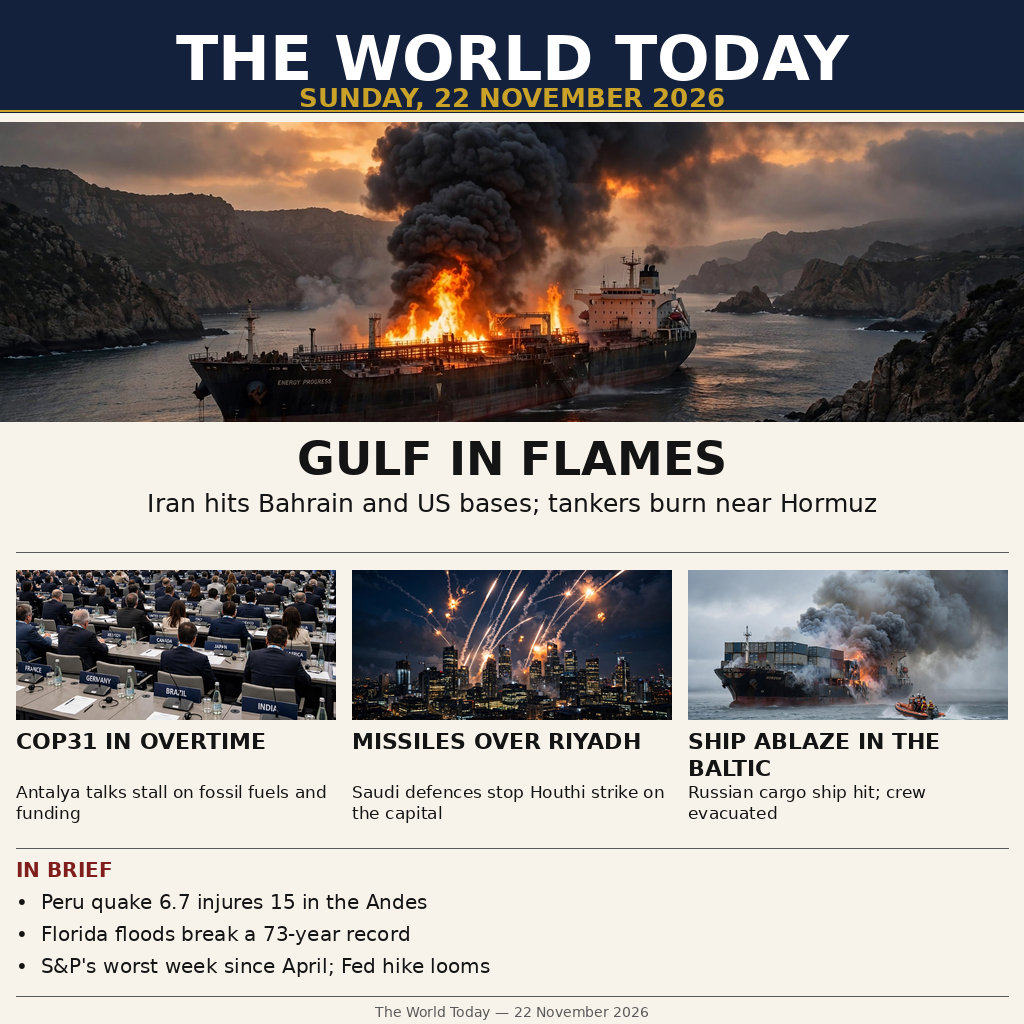
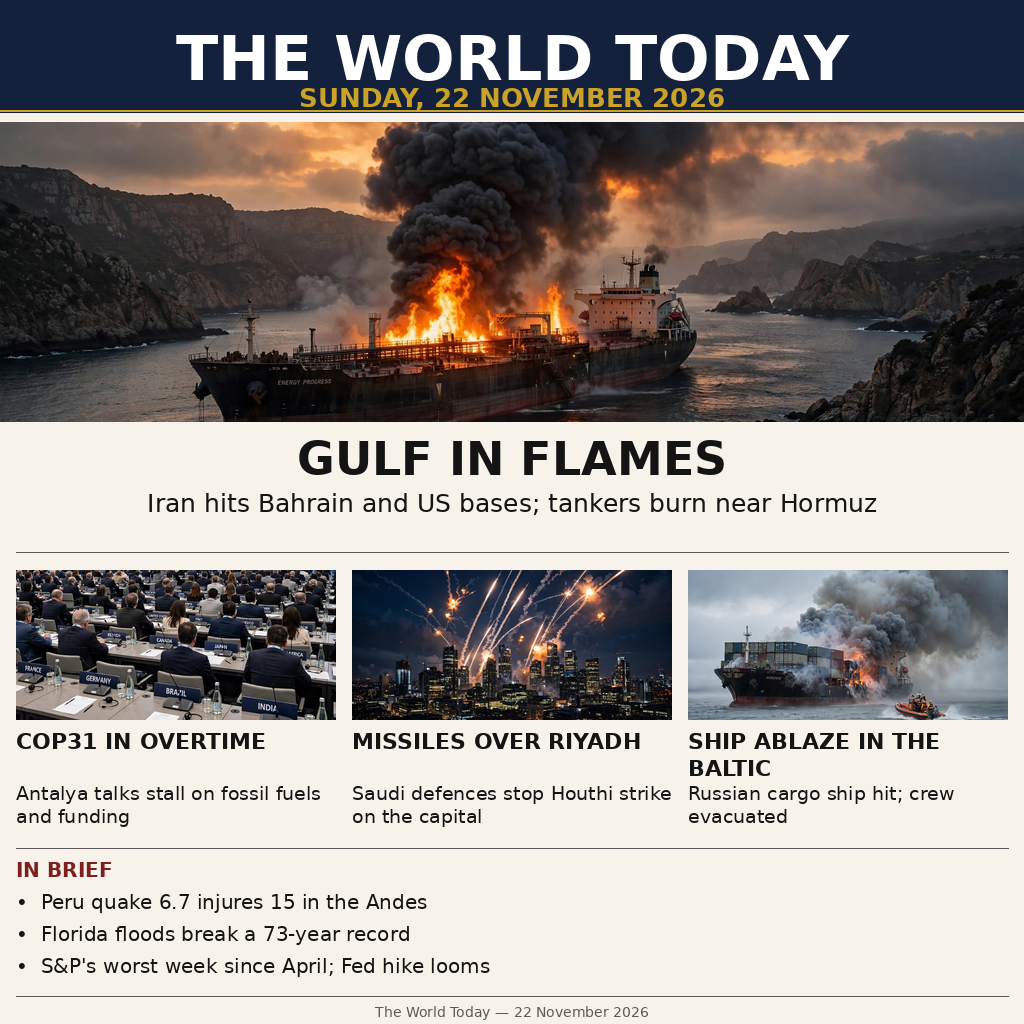
Enlarge secondary captions for 300px legibility
Secondary captions 17pt -> 19pt (line height 21 -> 23) so the
COP31 / Riyadh / Baltic captions stay readable at the ~300px size
the judge reads at. Layout unchanged otherwise; all captions still
fit two lines above the IN BRIEF separator.

Changed region(s): [[0.3438, 0.75, 0.9375, 0.8125], [0.0, 0.75, 0.3125, 0.8125]]

diff --git a/gen_poster.py b/gen_poster.py
@@ -121,9 +121,9 @@ def main():
             d.text((x, y), line, font=BOLD(22), fill=BLACK)
             y += 27
         y = max(y, 782)
-        for line in wrap(d, cap, REG(17), 320)[:2]:
-            d.text((x, y), line, font=REG(17), fill=BLACK)
-            y += 21
+        for line in wrap(d, cap, REG(19), 320)[:2]:
+            d.text((x, y), line, font=REG(19), fill=BLACK)
+            y += 23
 
     d.line([(16, 848), (1008, 848)], fill=GREY, width=1)
 
